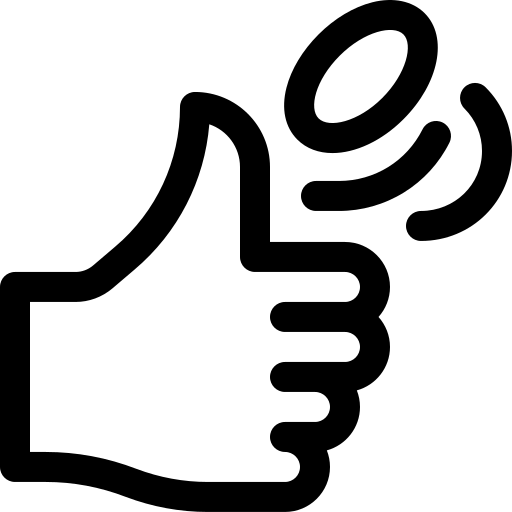
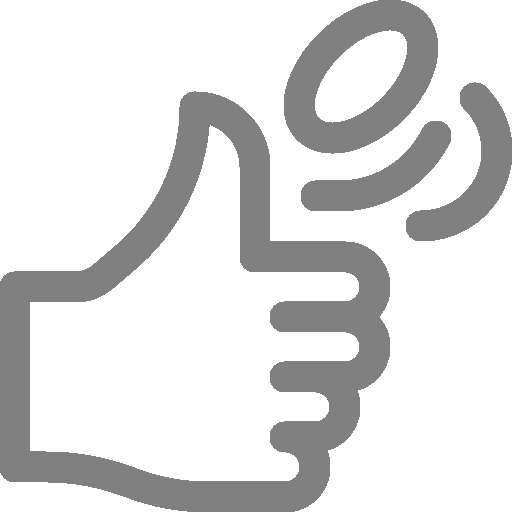
|#19|thanya/priyanshu| modified css of activitylog

Changed region(s): [[0.0, 0.1562, 0.7812, 1.0], [0.5312, 0.0, 0.9062, 0.4375], [0.7812, 0.1562, 1.0, 0.4688]]

diff --git a/test/testGame.js b/test/testGame.js
@@ -28,7 +28,7 @@ describe('Game', () => {
             zeta: 0
           }
         },
-        statusMsg: 'Waiting for your turn',
+        statusMsg: 'Wait for your turn',
         turn: false
       };
       assert.deepStrictEqual(game.getStatus(13).status.player, expected);
@@ -114,7 +114,7 @@ describe('Game', () => {
             zeta: 0
           }
         },
-        statusMsg: 'Waiting for your turn',
+        statusMsg: 'Wait for your turn',
         turn: false
       };
       assert.deepStrictEqual(game.getPlayerStatus(13), expected);

diff --git a/lib/models/player.js b/lib/models/player.js
@@ -13,12 +13,12 @@ class Player {
       sackson: 0,
       zeta: 0
     };
-    this.statusMessage = 'Waiting for your turn';
+    this.statusMessage = 'Wait for your turn';
     this.turn = false;
     this.state = 'wait';
   }
 
-  toggleTurn(){
+  toggleTurn() {
     this.turn = !this.turn;
   }
 
@@ -34,7 +34,7 @@ class Player {
     this.statusMessage = msg;
   }
 
-  addTile(tile){
+  addTile(tile) {
     this.tiles.push(tile);
   }
 

diff --git a/private/css/play.css b/private/css/play.css
@@ -306,10 +306,11 @@ td {
 }
 
 .ActivityIcon {
-  height: 3%;
-  width: 3%;
+  height: 5%;
+  width: 5%;
 }
 .activityDiv {
+  color: gray;
   font: inherit;
   margin: auto;
 }

diff --git a/public/css/index.css b/public/css/index.css
@@ -15,7 +15,6 @@ body {
 
 .box {
   width: 20%;
-  height: 45%;
   border: 1px solid black;
   margin: 0 auto;
   display: flex;
